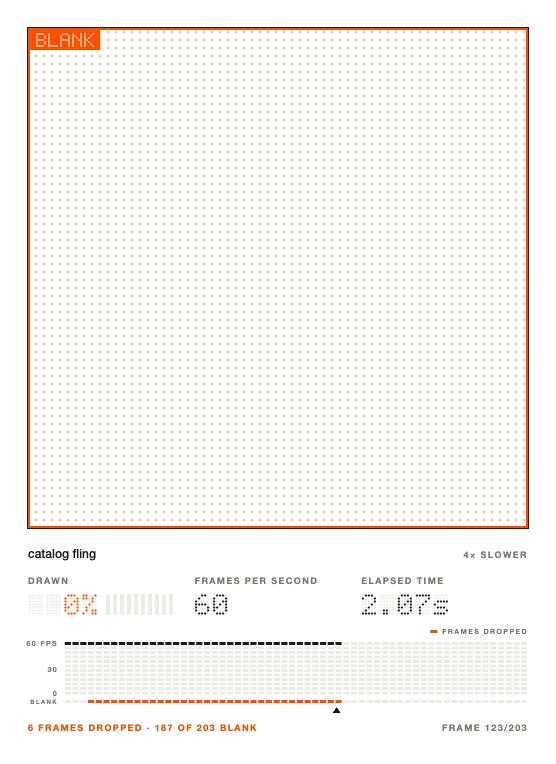
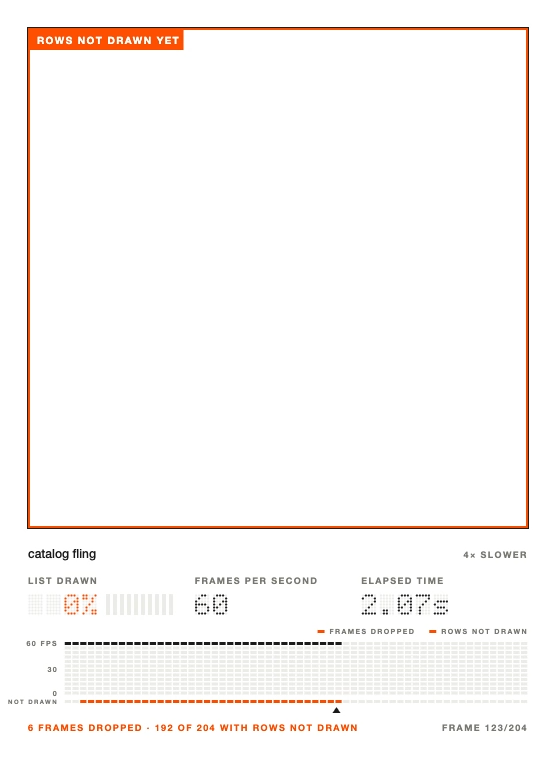
Replays say 'rows not drawn yet' instead of BLANK, and leave the empty list visible
BLANK was the library's own term and didn't tell a viewer what happened. A
frame whose list was less than half drawn now gets an orange outline and a tag
saying ROWS NOT DRAWN YET, without the halftone screen that covered the very
thing to look at. The readout says LIST DRAWN, the strip under the graph is
labelled NOT DRAWN, the key names both kinds of orange, and the footer says
'114 of 122 with rows not drawn'.

diff --git a/src/replay/encode.ts b/src/replay/encode.ts
@@ -105,11 +105,6 @@ async function renderInPage(args: ReplayInput & { slowdown: number; keyEvery: nu
     '/': '00001000100001000100010000100010000',
     '.': '00000000000000000000000000110001100',
     s: '00000000000111110000011100000111110',
-    B: '11110100011000111110100011000111110',
-    L: '10000100001000010000100001000011111',
-    A: '01110100011000111111100011000110001',
-    N: '10001110011010110011100011000110001',
-    K: '10001100101010011000101001001010001',
     ' ': '00000000000000000000000000000000000',
   };
   const dotText = (s: string, x: number, y: number, cell: number, on: string, off: string | null) => {
@@ -128,7 +123,6 @@ async function renderInPage(args: ReplayInput & { slowdown: number; keyEvery: nu
     }
     return x;
   };
-  const dotWidth = (s: string, cell: number) => s.length * cell * 6 - cell;
   const meter = (x: number, y: number, h: number, drawn: number, blank: boolean) => {
     const lit = Math.round(drawn * 10);
     for (let k = 0; k < 10; k++) {
@@ -139,8 +133,9 @@ async function renderInPage(args: ReplayInput & { slowdown: number; keyEvery: nu
   const secs = (ms: number) => `${(ms / 1000).toFixed(2)}s`;
   const pad3 = (v: number) => String(v).padStart(String(n).length, '0');
 
-  // The list on the screenshot: a hairline when drawn; when blank, an orange halftone screen and
-  // a tag.
+  // The list on the screenshot: a hairline when drawn; when its rows aren't drawn (a blank frame),
+  // an orange outline and a tag that says so. The empty list itself is the evidence, so it isn't
+  // covered.
   const markList = (ox: number, oy: number, blank: boolean) => {
     if (!args.rect) return;
     const x = ox + args.rect.x * sx;
@@ -153,25 +148,17 @@ async function renderInPage(args: ReplayInput & { slowdown: number; keyEvery: nu
       g.strokeRect(x + 0.5, y + 0.5, w - 1, h - 1);
       return;
     }
-    g.save();
-    g.beginPath();
-    g.rect(x, y, w, h);
-    g.clip();
-    g.fillStyle = 'rgba(255, 79, 0, 0.35)';
-    for (let yy = y + 4; yy < y + h; yy += 8)
-      for (let xx = x + 4 + ((yy - y) % 16 ? 4 : 0); xx < x + w; xx += 8) {
-        g.beginPath();
-        g.arc(xx, yy, 1.4, 0, Math.PI * 2);
-        g.fill();
-      }
-    g.restore();
     g.strokeStyle = c.blank;
     g.lineWidth = 2;
     g.strokeRect(x + 1, y + 1, w - 2, h - 2);
-    const tagW = dotWidth('BLANK', 2) + 12;
+    g.font = `700 10px ${sans}`;
+    g.letterSpacing = '1.2px';
+    const tag = 'ROWS NOT DRAWN YET';
+    const tagW = g.measureText(tag).width + 14;
+    g.letterSpacing = '0px';
     g.fillStyle = c.blank;
     g.fillRect(x + 2, y + 2, tagW, 20);
-    dotText('BLANK', x + 8, y + 5, 2, c.paper, null);
+    label(tag, x + 9, y + 16, c.paper, 'left', 10);
   };
 
   // Frame rate over a short trailing window, from the compositor's presented frames.
@@ -255,7 +242,7 @@ async function renderInPage(args: ReplayInput & { slowdown: number; keyEvery: nu
     const droppingNow = droppedBetween(args.timesMs[i]! - FPS_WINDOW_MS, args.timesMs[i]!) > 0;
     const listWentBlank = blankCount > 0;
     const droppedSoFar = droppedBetween(-1, args.timesMs[i]!);
-    label(listWentBlank ? 'Drawn' : 'Dropped frames', left, y);
+    label(listWentBlank ? 'List drawn' : 'Dropped frames', left, y);
     label('Frames per second', left + col, y);
     label('Elapsed time', left + col * 2, y);
     const cell = 3;
@@ -308,18 +295,22 @@ async function renderInPage(args: ReplayInput & { slowdown: number; keyEvery: nu
       g.fillStyle = played && (isList ? sl.blank : sl.long) ? c.blank : c.off;
       g.fillRect(gl + cI * colW + 0.75, base + 4, colW - 1.5, cellH);
     }
-    // Key: orange means frames were dropped.
-    g.font = `600 7px ${sans}`;
-    g.letterSpacing = '1.4px';
-    const keyW = g.measureText('FRAMES DROPPED').width;
-    g.letterSpacing = '0px';
-    g.fillStyle = c.blank;
-    g.fillRect(right - keyW - 12, top - 12, 7, cellH);
-    label('Frames dropped', right, top - 8, c.graphite, 'right', 7);
+    // Key: what orange means, on the line and in the strip underneath.
+    let keyX = right;
+    for (const item of [isList ? 'Rows not drawn' : 'Long frames', 'Frames dropped']) {
+      g.font = `600 7px ${sans}`;
+      g.letterSpacing = '1.4px';
+      const w = g.measureText(item.toUpperCase()).width;
+      g.letterSpacing = '0px';
+      label(item, keyX, top - 8, c.graphite, 'right', 7);
+      g.fillStyle = c.blank;
+      g.fillRect(keyX - w - 12, top - 12, 7, cellH);
+      keyX -= w + 26;
+    }
     label('60 fps', gl - 6, base - rows * pitch + 4, c.graphite, 'right', 7);
     label('30', gl - 6, base - (rows / 2) * pitch + 3, c.graphite, 'right', 7);
     label('0', gl - 6, base, c.graphite, 'right', 7);
-    label(isList ? 'Blank' : 'Long', gl - 6, base + 7.5, c.graphite, 'right', 6);
+    label(isList ? 'Not drawn' : 'Long', gl - 6, base + 7.5, c.graphite, 'right', 6);
     // measure(): a small mark above the graph where each input arrived.
     for (const t of inputs) {
       if (t > args.timesMs[i]!) continue;
@@ -346,7 +337,7 @@ async function renderInPage(args: ReplayInput & { slowdown: number; keyEvery: nu
     g.fill();
     const parts = [
       `${droppedTotal} frames dropped`,
-      isList ? `${blankCount} of ${n} blank` : `${args.markers.longFrames.length} long frames`,
+      isList ? `${blankCount} of ${n} with rows not drawn` : `${args.markers.longFrames.length} long frames`,
     ];
     label(
       parts.join(' · '),

diff --git a/docs/list-detection.md b/docs/list-detection.md
@@ -36,9 +36,9 @@ The line-counting function (`src/list/coverage.ts`) is plain code with no depend
 
 ## Replays
 
-A replay turns a measured run's screenshots into a WebM video attached to the test (`smoothness replay: <label>`). The run chosen is the one whose blank-frame share is closest to the reported median. Each frame shows the list outlined; on a blank frame it's covered with an orange halftone screen and tagged **BLANK**. Underneath, a small display reads out the frame rate over the last 250ms (of the frames that had something to show, the share presented, at 60Hz; orange while frames are being dropped) and the time. When the list went blank during the run, it also reads out how drawn the list was, with a ten-segment meter; otherwise it counts the frames dropped so far. An LCD-style graph draws the frame rate in 60 columns as the replay plays: black at 60 frames per second, orange below it, where frames were dropped. A one-row strip underneath marks blank frames. It plays 4× slower than real time (`REPLAY_SLOWDOWN`), because at 60 frames a second a blank frame lasts 16ms.
+A replay turns a measured run's screenshots into a WebM video attached to the test (`smoothness replay: <label>`). The run chosen is the one whose blank-frame share is closest to the reported median. Each frame shows the list outlined; on a blank frame the outline turns orange and a tag says **ROWS NOT DRAWN YET**, leaving the empty list visible. Underneath, a small display reads out the frame rate over the last 250ms (of the frames that had something to show, the share presented, at 60Hz; orange while frames are being dropped) and the time. When the list went blank during the run, it also reads out how much of the list was drawn, with a ten-segment meter; otherwise it counts the frames dropped so far. An LCD-style graph draws the frame rate in 60 columns as the replay plays: black at 60 frames per second, orange below it, where frames were dropped. A one-row strip underneath marks blank frames. It plays 4× slower than real time (`REPLAY_SLOWDOWN`), because at 60 frames a second a blank frame lasts 16ms.
 
-![A frame from a replay: the list covered in an orange halftone and tagged BLANK, 0% drawn at 60 frames per second, over a frame-rate graph with blank frames marked underneath](replay-frame.png)
+![A frame from a replay: the empty list outlined in orange and tagged ROWS NOT DRAWN YET, 0% drawn at 60 frames per second, over a frame-rate graph with frames whose rows weren't drawn marked underneath](replay-frame.png)
 
 - `replay: 'on-regression'` (the default) attaches one when a check got worse. `'on'` attaches one for every full-mode `scroll()`, and `'off'` never.
 - It's made after the test body, from frames the measurement already recorded, so it doesn't affect the numbers. When no replay is wanted, nothing is encoded.
